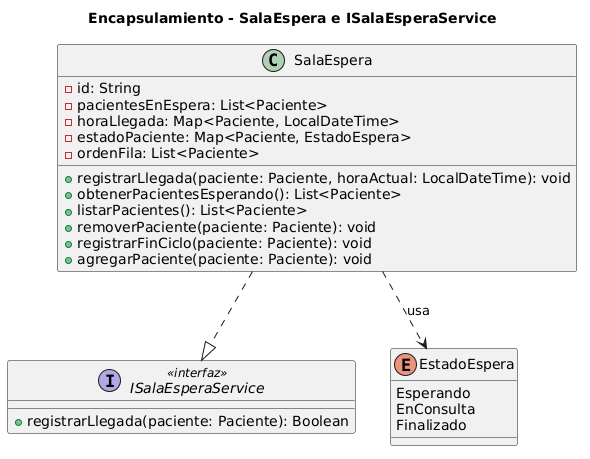
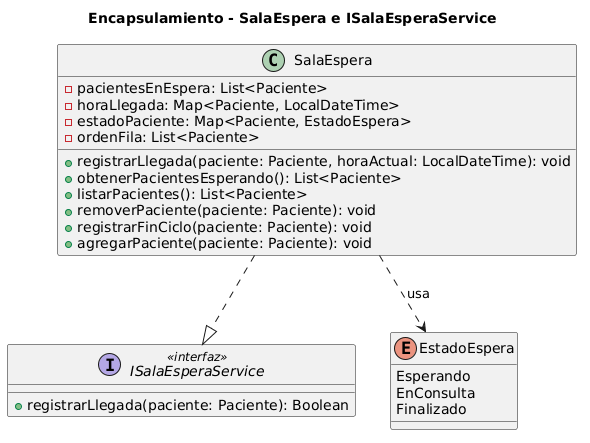
se aplican los rc

diff --git a/changelog.md b/changelog.md
@@ -1,5 +1,7 @@
 # Changelog
 
+## [Unreleased]
+
 ## [Examen Final] - 2026-07-15
 
 ### Added
